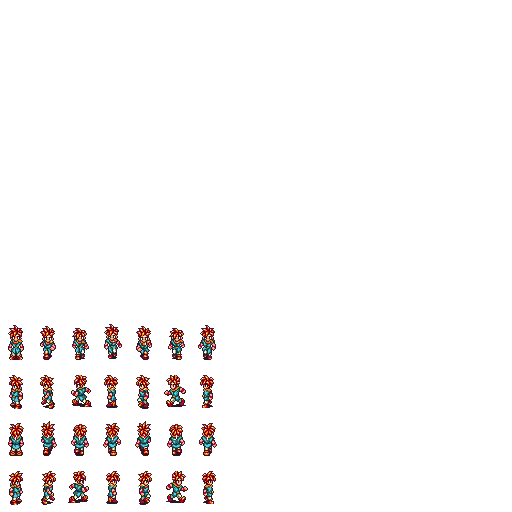
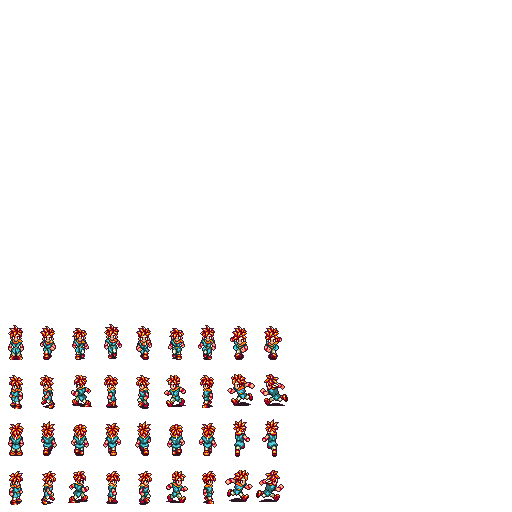
Running

Changed region(s): [[0.4375, 0.625, 0.5625, 1.0]]

diff --git a/src/lua_player.cpp b/src/lua_player.cpp
@@ -18,11 +18,18 @@ NNGN_LUA_PROXY(Player,
     "WRIGHT", sol::var(Player::Animation::WRIGHT),
     "WDOWN", sol::var(Player::Animation::WDOWN),
     "WUP", sol::var(Player::Animation::WUP),
+    "RUN", sol::var(Player::Animation::RUN),
+    "RLEFT", sol::var(Player::Animation::RLEFT),
+    "RRIGHT", sol::var(Player::Animation::RRIGHT),
+    "RDOWN", sol::var(Player::Animation::RDOWN),
+    "RUP", sol::var(Player::Animation::RUP),
     "N_ANIMATIONS", sol::var(Player::N_ANIMATIONS),
     "entity", [](const Player &p) { return p.e; },
     "face", [](const Player &p) { return p.face; },
+    "running", [](const Player &p) { return p.running; },
     "set_entity", [](Player &p, Entity *e) { p.e = e; },
     "set_face", [](Player &p, Player::Face f) { p.face = f; },
+    "set_running", [](Player &p, bool r) { p.running = r; },
     "face_vec", &Player::face_vec)
 NNGN_LUA_PROXY(Players,
     sol::no_constructor,

diff --git a/src/player.h b/src/player.h
@@ -11,10 +11,12 @@ struct Player {
     enum Animation : uint8_t {
         FACE,
         WALK = N_FACES, WLEFT = WALK, WRIGHT, WDOWN, WUP,
+        RUN, RLEFT = RUN, RRIGHT, RDOWN, RUP,
         N_ANIMATIONS,
     };
     Entity *e;
     Face face = FDOWN;
+    bool running = false;
     explicit constexpr Player(Entity *p_e) noexcept : e(p_e) {}
     std::tuple<float, float> face_vec(float s) const;
 };
